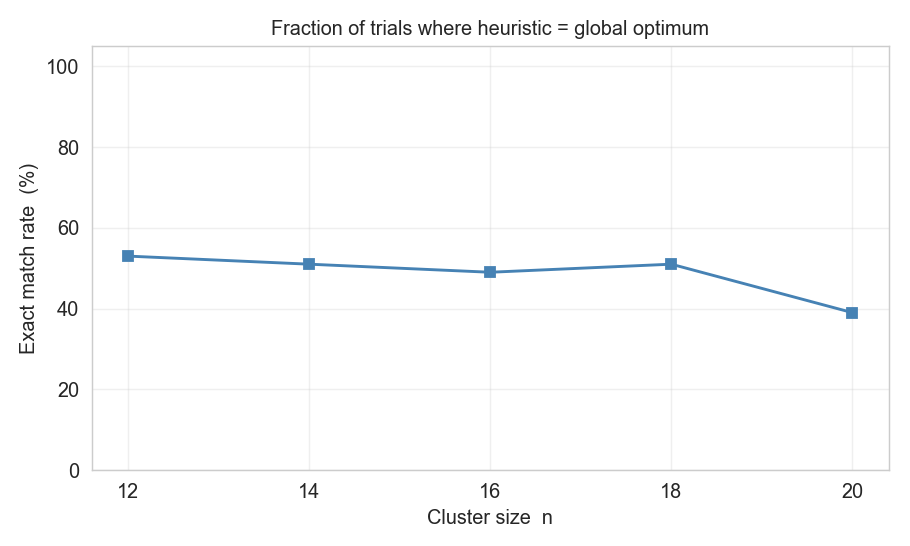
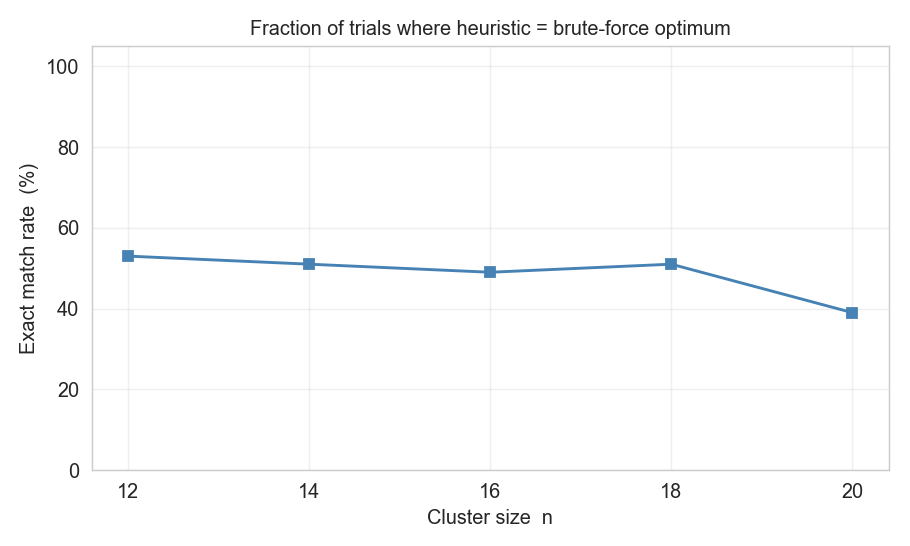
final results

Changed region(s): [[0.2769, 0.0311, 0.8, 0.0623]]

diff --git a/analysis/run_split_comparison.py b/analysis/run_split_comparison.py
@@ -183,7 +183,7 @@ def main() -> None:
     OUTDIR        = Path(__file__).resolve().parent.parent / "results" / "split_comparison"
 
     print("=== HMVA heuristic vs. brute-force split comparison ===")
-    print("   objective      : Cov(EW_A,EW_B) + Corr(EW_A,EW_B)")
+    print(f"  objective      : Cov(EW_A,EW_B) + Corr(EW_A,EW_B)")
     print(f"  cluster sizes  : {CLUSTER_SIZES}")
     print(f"  reps per size  : {N_REPS}")
     print()